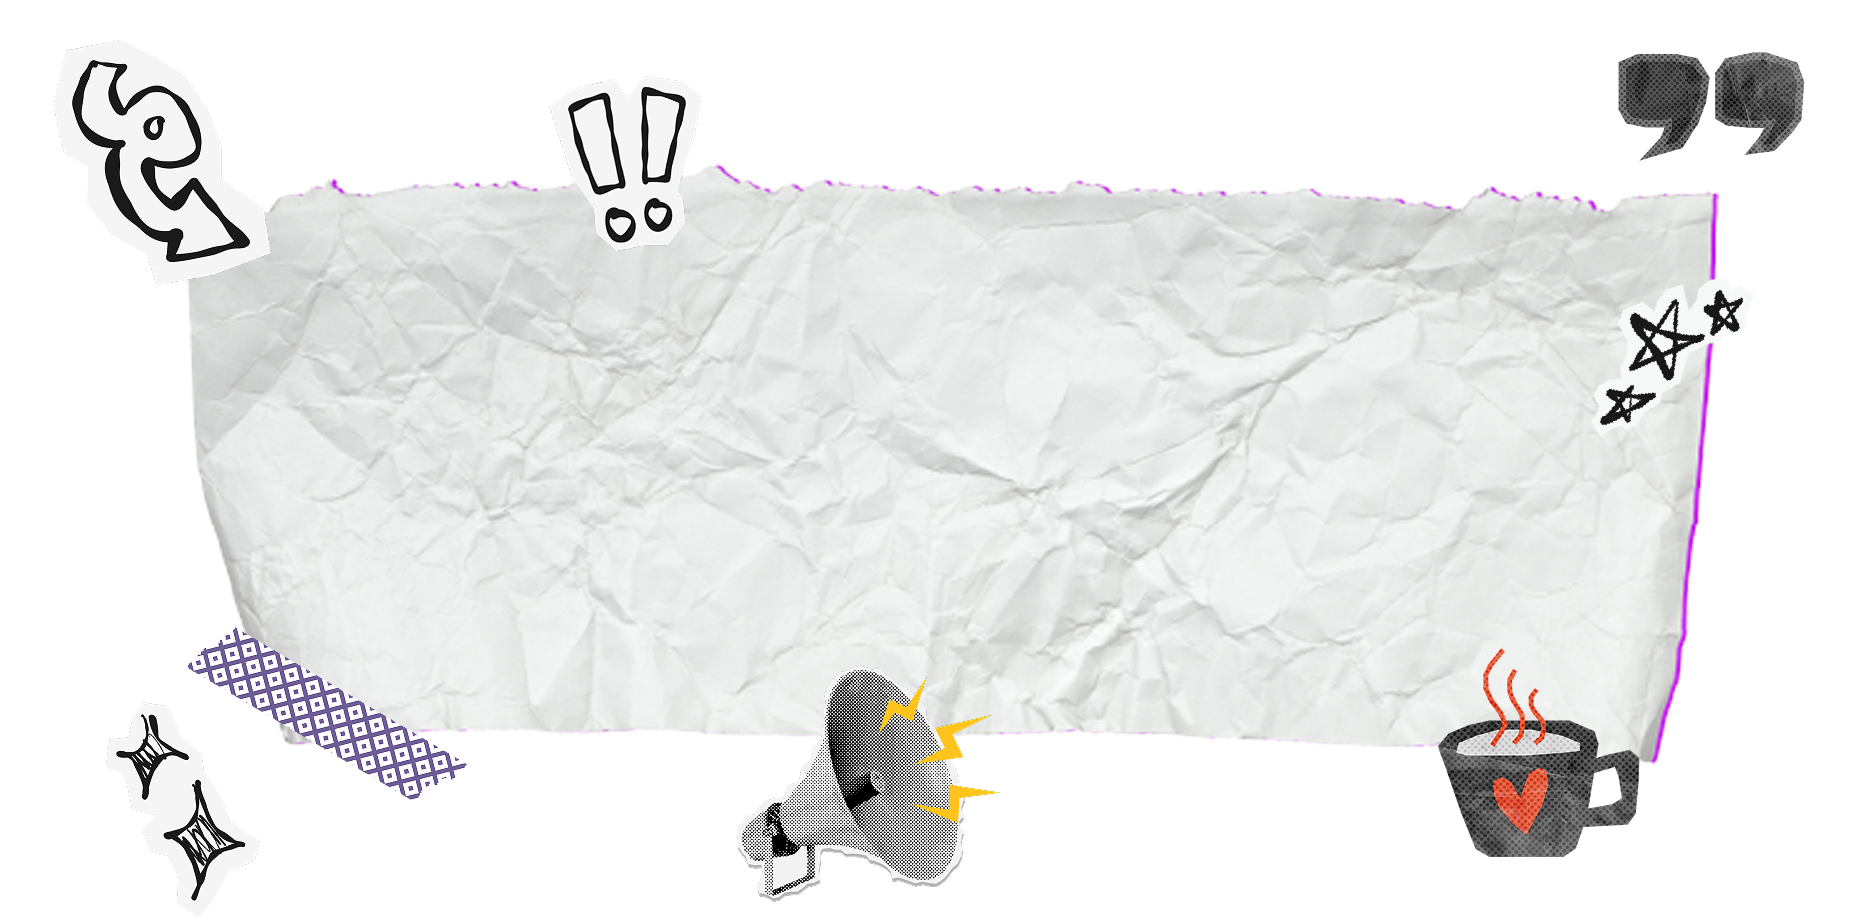
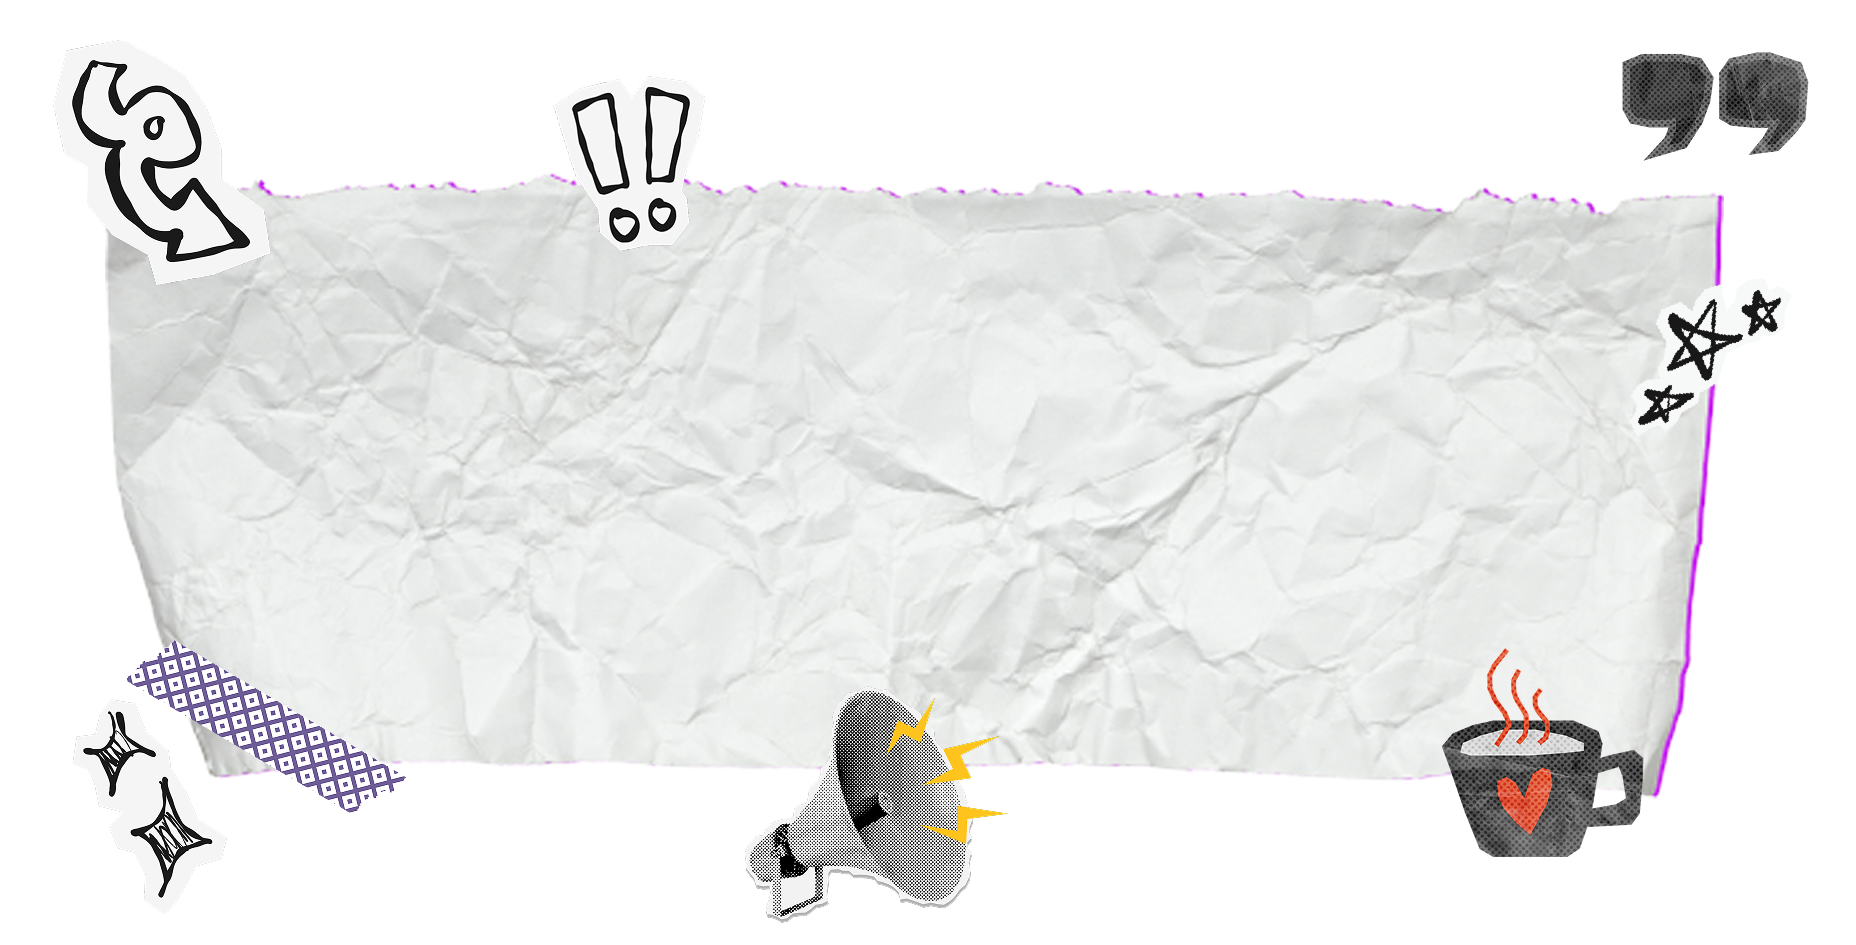
responsive sections home page

diff --git a/index.html b/index.html
@@ -39,25 +39,26 @@
           <div class="col-sm-8 col-xs-10">
             <!------------------------------------------    INFO SECTION    ------------------------------------------>
             <!--paper scrap background-->
-            <div style="width: 100%">
+            <div class="info-container" style="width: 100%">
               <div class="row w-100 justify-content-center">
                 <div
                   id="info"
                   class="d-flex flex-column mx-auto w-100 justify-content-center align-items-center"
-                  style="transform: rotate(-5deg)"
                 >
                   <div
                     class="row justify-content-center align-items-center"
                   ></div>
-                  <div class="d-flex flex-column justify-content-start p-5">
-                    <div class="mx-5">
+                  <div
+                    class="d-flex flex-column justify-content-start p-5 info-text"
+                  >
+                    <div class="mx-4">
                       <p>
                         Please join us for our virtual receptions! Our talented
                         graduates will present and discuss their work for
                         friends, family and fans.
                       </p>
                     </div>
-                    <div class="mx-5">
+                    <div class="mx-4">
                       <strong>
                         <p>
                           6-7 p.m. Tuesday May 6<br />
@@ -65,7 +66,7 @@
                         </p>
                       </strong>
                     </div>
-                    <div class="m-5">
+                    <div class="mx-4">
                       <strong>
                         <p>
                           Join the Zoom: PlaceholderForZoomLink<br />
@@ -82,13 +83,17 @@
             <!------------------------------------------    ABOUT THE SHOW SECTION    ------------------------------------------>
 
             <section class="about" id="about">
-              <div class="container-fluid">
+              <div class="about-container">
                 <div class="about-title"><h2>ABOUT THE SHOW</h2></div>
                 <div class="about-wrapper py-5">
                   <picture>
                     <source
                       srcset="images/about-img-mobile2.png"
                       media="(max-width: 1199.98px)"
+                    />
+                    <source
+                      srcset="images/about-img-mobile.png"
+                      media="(max-width: 767.98px)"
                     />
                     <img
                       class="abt-img mx-auto d-block"

diff --git a/css/styles.css b/css/styles.css
@@ -21,16 +21,6 @@ main {
 
 /* ------------------------- NAV ------------------------- */
 
-.logo {
-  text-align: center;
-  margin-bottom: 1rem;
-}
-
-.logo img {
-  max-width: 250px; /* Adjust size as needed */
-  height: auto;
-}
-
 nav {
   background-color: rgba(197, 197, 197, 0.5);
   display: flex;
@@ -79,13 +69,14 @@ nav {
   background-repeat: no-repeat;
   background-size: 100% 100%;
   background-position: center;
-  min-height: 500px;
+  min-height: 600px;
   position: relative;
   z-index: 1;
   width: 100%;
   padding: 3rem;
   aspect-ratio: 16/9;
-  margin-top: 25px;
+  margin-top: 45px;
+  transform: rotate(-5deg);
 }
 
 #info > * {
@@ -93,6 +84,11 @@ nav {
   z-index: 2;
   max-width: 80%;
   margin: 0 auto;
+}
+
+.info-text {
+  font-family: "poppins";
+  font-size: 1rem;
 }
 
 @font-face {
@@ -133,7 +129,7 @@ nav {
   font-size: 1.05rem;
   line-height: 1.4;
   text-align: left;
-  width: 60%;
+  width: 80%;
   padding: 20px;
   border-radius: 10px;
 }
@@ -159,41 +155,59 @@ nav {
   box-shadow: 0 2px 4px rgba(0, 0, 0, 0.1);
 }
 
+/* -------------------------------------------------------- MEDIA QUERIES -------------------------------------------------------- */
 @media (max-width: 1199.98px) {
   .about-wrapper {
-    flex-direction: column;
+    position: relative;
+    display: flex;
+    justify-content: center;
     align-items: center;
   }
 
   .abt-img {
-    width: 60%;
+    width: 80%;
+    display: block;
   }
 
   .about-paragraph {
     position: absolute;
-    top: 50%;
+    top: 10%;
     left: 50%;
-    transform: translate(-50%, -50%);
-    width: 40%;
+    transform: translate(-50%, 25%);
+    width: 60%;
+    padding: 1rem;
+    font-size: 1rem;
+    text-align: left;
+    z-index: 2;
+  }
+
+  #info {
+    background-image: url(../images/infomobile.png);
+    background-repeat: no-repeat;
+    background-size: 100% 100%;
+    background-position: center;
+    min-height: 600px;
+    position: relative;
+    z-index: 1;
+    width: 100%;
+    padding: 3rem;
+    aspect-ratio: 16/9;
+    margin-top: 45px;
+    transform: rotate(0deg);
   }
 }
 
 @media (max-width: 767.98px) {
-  .about-wrapper {
-    flex-direction: column;
-    align-items: center;
+  .about-paragraph {
+    top: 5%;
+    width: 85%;
+    font-size: 0.9rem;
+    padding: 0.8rem;
+    text-align: left;
+    transform: translate(-50%, 50%);
   }
 
   .abt-img {
     width: 100%;
-  }
-
-  .about-paragraph {
-    position: absolute;
-    width: 60%;
-    margin-top: 10px;
-    padding: 15px;
-    font-size: 1rem;
-    text-align: left;
   }
 }
